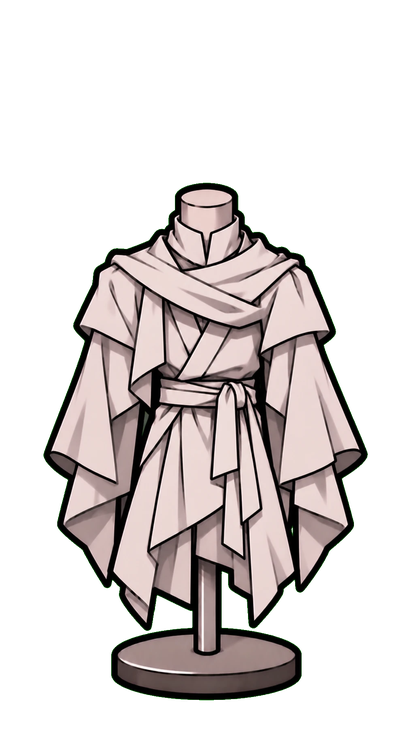
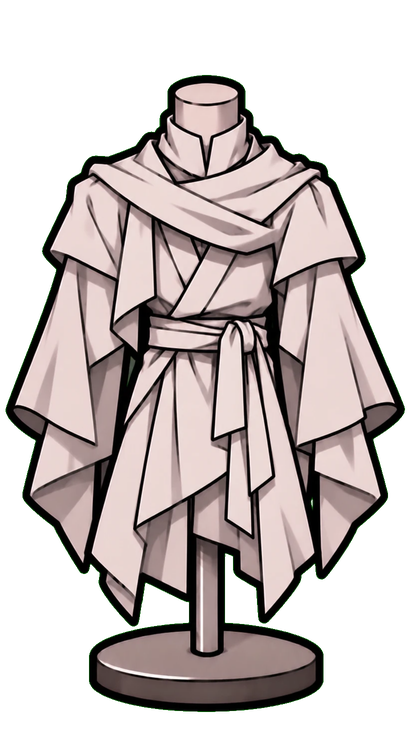
시지프 남성형: 셔츠 추가(5벌 완성), 마네킹 크기를 여성형과 같게 맞춤(전체 키 기준)

diff --git a/tools/sis-worn.py b/tools/sis-worn.py
@@ -8,7 +8,8 @@ from collections import deque
 from PIL import Image
 import numpy as np
 W,H=412,734
-BASE_W,BASE_Y=190,700   # 받침대 폭(픽셀), 받침대 바닥 높이
+BASE_W,BASE_Y=190,700
+MALE_H,MALE_Y=637,712   # 여성형 결과물의 마네킹 전체 키(픽셀)와 받침대 바닥 높이   # 받침대 폭(픽셀), 받침대 바닥 높이
 def load(p):
     a=np.array(Image.open(p).convert('RGB')).astype(int)
     r,g,b=a[...,0],a[...,1],a[...,2]
@@ -50,7 +51,10 @@ def main(src,dst):
             rw=low.sum(1);bw=int(rw.max());ys_=np.where(rw>bw*0.5)[0]
             by=int(y0+(y1-y0)*0.78)+int(ys_.max());bxs=np.where(low[int(ys_.min()):int(ys_.max())+1].any(0))[0];bcx=(bxs.min()+bxs.max())/2;bw=bxs.max()-bxs.min()
         k=BASE_W/bw
-        cw,ch=W/k,H/k;box=(int(bcx-cw/2),int(by-(BASE_Y)/k),int(bcx+cw/2),int(by-(BASE_Y)/k+ch))
+        if n.startswith('m_'):k=MALE_H/(y1-y0);BY_=MALE_Y
+        else:BY_=BASE_Y
+        if False:pass   # 남성형은 받침대가 더 넓어서 받침대 폭 대신 마네킹 전체 키를 여성형과 같게 맞춘다
+        cw,ch=W/k,H/k;box=(int(bcx-cw/2),int(by-(BY_)/k),int(bcx+cw/2),int(by-(BY_)/k+ch))
         if pale:
             # 마네킹·받침대가 옷과 비슷한 색이라 모양으로 가른다: 목(윗부분 가운데)·받침대(옷 밑단 아래)·검은 외곽선을 뺀다
             hh=y1-y0;rowsw=nong.sum(1)
